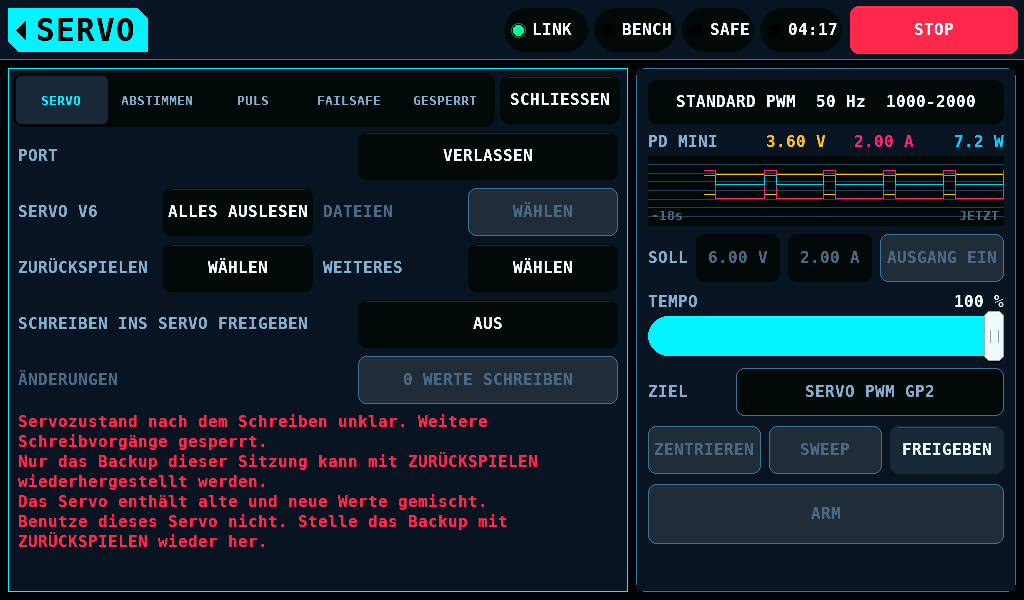
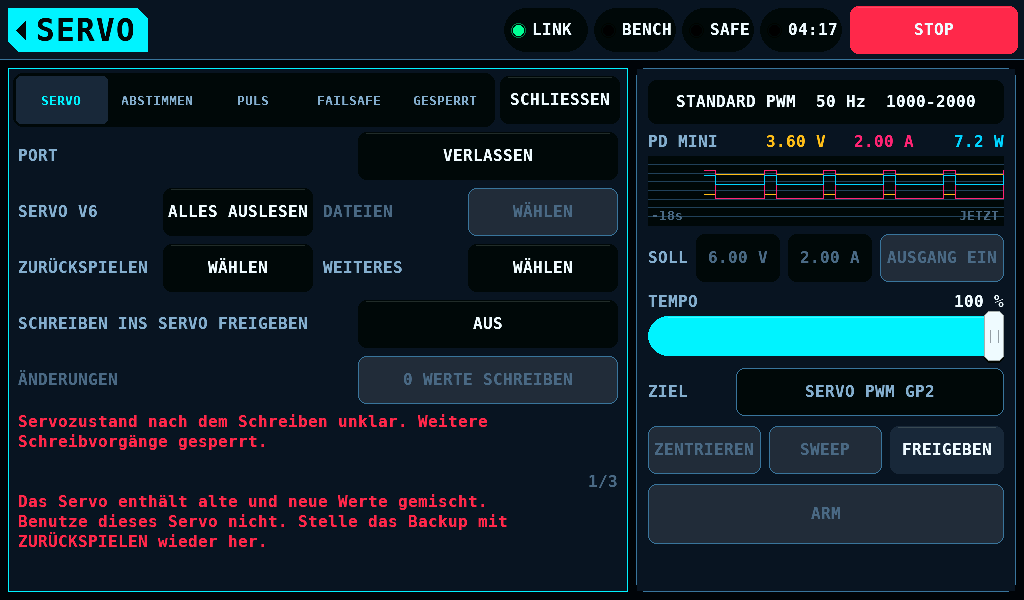
Draw every line of the programmer's message; the standing notes yield
Where the standing lines leave no row beside the message for a page
count, they page with the other notes, first, and a line taller than a
page waits for the message to go.  The longest message, 5 rows, fits the
7 rows under the SERVO tab, so no message line is left out.

Changed region(s): [[0.0, 0.75, 0.5312, 0.81]]

diff --git a/test/host/test_kst_panel_notes.c b/test/host/test_kst_panel_notes.c
@@ -6,8 +6,8 @@
  * Cases:
  * - notes_that_do_not_fit_take_pages_and_none_is_lost
  * - standing_notes_are_on_the_first_page_whole
- * - every_message_fits_whole_beside_every_standing_pair
- * - a_servo_in_doubt_keeps_its_standing_lines_on_the_first_page
+ * - every_message_fits_whole_under_the_servo_tab
+ * - a_servo_in_doubt_keeps_every_line_of_its_message
  * - the_notes_start_on_their_first_page_again
  * - a_text_before_the_area_is_set_still_ends
  *
@@ -65,12 +65,21 @@ TEST_CASE(standing_notes_are_on_the_first_page_whole)
     CHECK(kst_panel_pack_notes(rows, held, 5, 6, page) == 2);
     CHECK(page[0] == 0 && page[1] == 1 && page[2] == 0 && page[3] == 0
           && page[4] == 1);
-    /* No row beside the pair for a count: the pair alone, the rest on no
-     * page. */
-    for (int room = 2; room <= 4; ++room) {
-        CHECK(kst_panel_pack_notes(rows, held, 5, room, page) == 1);
-        CHECK(page[0] == -1 && page[1] == -1 && page[2] == 0
-              && page[3] == 0 && page[4] == -1);
+    /* No row beside the pair for a count: the pair yields, every note
+     * pages in pages of room - 1 rows, the pair first. */
+    CHECK(kst_panel_pack_notes(rows, held, 5, 4, page) == 3);
+    CHECK(page[2] == 0 && page[3] == 1 && page[0] == 1 && page[1] == 2
+          && page[4] == 2);
+    CHECK(kst_panel_pack_notes(rows, held, 5, 3, page) == 4);
+    CHECK(page[2] == 0 && page[3] == 1 && page[0] == 2 && page[1] == 2
+          && page[4] == 3);
+    /* A note taller than a page waits for the room to grow. */
+    CHECK(kst_panel_pack_notes(rows, held, 5, 2, page) == 3);
+    CHECK(page[2] == -1 && page[3] == -1 && page[0] == 0 && page[1] == 1
+          && page[4] == 2);
+    CHECK(kst_panel_pack_notes(rows, held, 5, 1, page) == 1);
+    for (int i = 0; i < 5; ++i) {
+        CHECK_EQ(page[i], -1);
     }
 }
 
@@ -135,11 +144,10 @@ static int max_int(int a, int b)
 
 /* The standing lines take up to two rows each and every message up to
  * three lines.  Between the SERVO tab's last row and 4 px above the alert
- * band there are 7 rows: the tallest pair and the tallest message fit
- * whole in English.  In German they take 9: the pair stays whole with 3
- * rows for the message under it, and the message's last 2 rows at most
- * are not drawn.  No note reaches into a value row. */
-TEST_CASE(every_message_fits_whole_beside_every_standing_pair)
+ * band there are 7 rows: the tallest message fits whole in them in both
+ * languages, and in English the tallest pair fits beside it.  In German
+ * they take 9; the pair yields to the message (kst_panel_pack_notes()). */
+TEST_CASE(every_message_fits_whole_under_the_servo_tab)
 {
     static const unsigned args[] = { 0u, 1u, 2u, 9u, 10u, 99u, 255u, 256u,
                                      0x0101u, 0x0F0Fu, 0xFFFFu };
@@ -189,11 +197,9 @@ TEST_CASE(every_message_fits_whole_beside_every_standing_pair)
         CHECK(held > 0);
         CHECK(text > 0);
         CHECK_EQ(fit, 7);
+        CHECK(text <= fit);
         if (lang == 0) {
             CHECK(held + text <= fit);
-        } else {
-            CHECK(held + KST_PANEL_MSG_LINES <= fit);
-            CHECK(held + text <= fit + 2);
         }
     }
     ui_text_set_language(UI_LANG_EN);
@@ -202,12 +208,28 @@ TEST_CASE(every_message_fits_whole_beside_every_standing_pair)
 /* An area 460 px tall: 6 rows of notes under the SERVO tab. */
 static const gfx_rect_t k_short = { UI_MARGIN, UI_MARGIN, 620, 460 };
 
+/* Every line of the message shown is drawn, and nothing passes 4 px above
+ * the alert band. */
+static void message_whole(void)
+{
+    char t[KST_PANEL_MSG_LINES][KST_PANEL_LINE];
+    const gfx_rect_t drawn = kst_panel_notes_drawn();
+    const gfx_rect_t last = val(PG_SERVO, 4, 0);
+
+    CHECK_EQ(kst_panel_shown_message_lines(),
+             kst_panel_message_lines(kst_prog_message(M), t));
+    CHECK(drawn.h > 0);
+    CHECK(drawn.y >= last.y + last.h);
+    CHECK(drawn.y + drawn.h <= NOTES_FOOT);
+}
+
 /* A servo in doubt, in German, after READ ALL: the standing pair (4 rows)
- * and the message (3 rows) fill the 7 rows above the alert band, so the
- * other notes wait on page 0 for the message to go.  A taller message
- * keeps the pair whole and loses its last lines; with no message every
- * note fits. */
-TEST_CASE(a_servo_in_doubt_keeps_its_standing_lines_on_the_first_page)
+ * and the message (3 rows) leave no row for the count, so the pair yields:
+ * its lines page with the other notes, first, and the message stays
+ * whole.  The tallest message, 5 rows, beside the pair: the pair's lines,
+ * 2 rows each, wait, and every line of the message is drawn.  With no
+ * message every note fits. */
+TEST_CASE(a_servo_in_doubt_keeps_every_line_of_its_message)
 {
     fresh();
     ui_text_set_language(UI_LANG_DE);
@@ -217,18 +239,15 @@ TEST_CASE(a_servo_in_doubt_keeps_its_standing_lines_on_the_first_page)
     tap(kst_panel_tab_rect(PG_SERVO));
     tap(val(PG_SERVO, 1, 0));          /* READ ALL */
     settle();
-    CHECK_EQ(kst_panel_note_pages(), 1);
-    standing_shown();
-    CHECK(!on_page(kst_panel_status_line(0)));
-    {
-        char t[KST_PANEL_MSG_LINES][KST_PANEL_LINE];
+    CHECK(kst_panel_standing_line(1) != NULL);
+    message_whole();
+    CHECK(kst_panel_note_pages() > 1);
+    CHECK(on_page(kst_panel_standing_line(0)));
+    tap(kst_panel_notes_rect());
+    CHECK_EQ(kst_panel_note_page(), 1);
+    CHECK(on_page(kst_panel_standing_line(1)));
+    message_whole();
 
-        CHECK_EQ(kst_panel_shown_message_lines(),
-                 kst_panel_message_lines(kst_prog_message(M), t));
-    }
-
-    /* A message of 4 rows, then one of 5: the pair stays on page 0, the
-     * message's lines that pass the foot are not drawn. */
     {
         const kst_prog_msg_t four = { .id = KST_PROG_MSG_BACKUP_OTHER,
                                       .level = KST_PROG_DANGER,
@@ -242,13 +261,13 @@ TEST_CASE(a_servo_in_doubt_keeps_its_standing_lines_on_the_first_page)
         CHECK_EQ(message_rows(&four), 4);
         M->msg = four;
         show();
-        standing_shown();
-        CHECK_EQ(kst_panel_shown_message_lines(), 1);
+        message_whole();
         CHECK_EQ(message_rows(&five), 5);
         M->msg = five;
         show();
-        standing_shown();
-        CHECK(kst_panel_shown_message_lines() >= 1);
+        message_whole();
+        CHECK(!on_page(kst_panel_standing_line(0)));
+        CHECK(!on_page(kst_panel_standing_line(1)));
     }
 
     /* No message: on SERVO's left card every note fits on one page. */
@@ -329,8 +348,8 @@ int main(void)
 {
     RUN(notes_that_do_not_fit_take_pages_and_none_is_lost);
     RUN(standing_notes_are_on_the_first_page_whole);
-    RUN(every_message_fits_whole_beside_every_standing_pair);
-    RUN(a_servo_in_doubt_keeps_its_standing_lines_on_the_first_page);
+    RUN(every_message_fits_whole_under_the_servo_tab);
+    RUN(a_servo_in_doubt_keeps_every_line_of_its_message);
     RUN(the_notes_start_on_their_first_page_again);
     RUN(a_text_before_the_area_is_set_still_ends);
     return test_summary("kst_panel_notes");

diff --git a/shared/ui/kst_panel_draw.c b/shared/ui/kst_panel_draw.c
@@ -369,12 +369,29 @@ int kst_panel_pack_notes(const int *rows, const bool *standing, int count,
         return 1;
     }
     /* The standing notes take the first page before any other.  With no
-     * row left beside them for the page count, the other notes wait. */
+     * row left beside them for the page count, they yield to the message:
+     * every note pages in pages of room - 1 rows, the standing ones first,
+     * and a note taller than a page waits for the message to go. */
     if (held > 0 && held > room - 1) {
-        for (int i = 0; i < count; ++i) {
-            page[i] = standing[i] ? 0 : -1;
+        used = 0;
+        for (int pass = 0; pass < 2; ++pass) {
+            for (int i = 0; i < count; ++i) {
+                if (standing[i] != (pass == 0)) {
+                    continue;
+                }
+                if (rows[i] > room - 1) {
+                    page[i] = -1;
+                    continue;
+                }
+                if (used > 0 && used + rows[i] > room - 1) {
+                    ++pages;
+                    used = 0;
+                }
+                page[i] = pages - 1;
+                used += rows[i];
+            }
         }
-        return 1;
+        return pages;
     }
     /* A page keeps its last row for the page count. */
     used = held;
@@ -482,12 +499,12 @@ static int rows_foot(void)
  * other notes page after them, the area's last notes row counts the pages,
  * and a tap on the notes shows the next.  Where the standing notes and the
  * message leave no row for the count, the other notes wait for the message
- * to go, and the standing notes rise into the gap above their place, no
- * higher than 4 px under the tab's last row.  Everything ends 4 px above
- * the alert band (kpn_notes_foot()): 7 rows under the SERVO tab's last row
- * on SERVO's left card.  The tallest pair and the tallest message take 7
- * rows in English and 9 in German; a message line that would still pass
- * the foot is not drawn.
+ * to go.  Where the standing notes leave no row for the count beside the
+ * message, they yield to it: they page with the others, first, and one
+ * taller than a page waits for the message to go.  Every line of the
+ * message is drawn: the longest takes 5 rows of the 7 under the SERVO
+ * tab's last row on SERVO's left card, which end 4 px above the alert band
+ * (kpn_notes_foot()).  No note rises above 4 px under the tab's last row.
  */
 static void layout_notes(notes_plan_t *p)
 {

diff --git a/test/host/test_kst_panel_layout.c b/test/host/test_kst_panel_layout.c
@@ -264,8 +264,9 @@ TEST_CASE(a_short_area_keeps_its_buttons_inside_it)
 
 /* Every message the model writes, with arguments of 1 to 5 digits, on the
  * SERVO tab of a connected servo and of a servo in doubt with its two
- * standing lines, in English and German: the notes and the message end
- * 4 px above the alert band and under the tab's last row. */
+ * standing lines (the tallest pair in German, 4 rows), in English and
+ * German: every line of the message is drawn, and the notes and the
+ * message end 4 px above the alert band and under the tab's last row. */
 TEST_CASE(no_note_or_message_lies_under_the_alert_band)
 {
     static const unsigned args[] = { 0u, 9u, 255u, 0xFFFFu };
@@ -288,14 +289,24 @@ TEST_CASE(no_note_or_message_lies_under_the_alert_band)
             for (unsigned id = 1u; id < 256u; ++id) {
                 for (size_t a = 0; a < sizeof(args) / sizeof(args[0]); ++a) {
                     const gfx_rect_t last = val(PG_SERVO, 4, 0);
+                    char t[KST_PANEL_MSG_LINES][KST_PANEL_LINE];
                     gfx_rect_t drawn;
+                    bool repeat;
+                    int n;
 
                     M->msg = (kst_prog_msg_t){ .id = (uint8_t)id,
                                                .level = KST_PROG_WARN,
                                                .reg = 0x10u,
                                                .arg = (uint16_t)args[a],
                                                .seq = M->msg.seq + 1u };
+                    n = kst_panel_message_lines(kst_prog_message(M), t);
+                    /* A message that repeats the first standing line is
+                     * left out; every other one is drawn whole. */
+                    repeat = n > 0 && kst_panel_standing_line(0) != NULL
+                             && strcmp(t[0], kst_panel_standing_line(0)) == 0;
                     drawn = kst_panel_notes_drawn();
+                    CHECK_EQ(kst_panel_shown_message_lines(),
+                             repeat ? 0 : n);
                     CHECK(drawn.y + drawn.h <= FOOT);
                     CHECK(drawn.h == 0 || drawn.y >= last.y + last.h);
                 }

diff --git a/shared/ui/include/kst_panel.h b/shared/ui/include/kst_panel.h
@@ -303,13 +303,21 @@ const char *kst_panel_choice_label(int i);
 const char *kst_panel_choice_title(void);
 
 /**
- * The page each of @p count notes of @p rows rows takes in @p room rows:
- * every note on page 0 when they fit, else pages that keep their last row
- * for the page count, a note never split.  A note marked in @p standing is
- * on page 0, and the others fill the rows left after the standing ones;
- * with no row left beside the standing notes for the count, the others
- * get page -1, shown on no page.  Writes @p page and returns the number of
- * pages.
+ * @brief The page each of @p count notes takes in @p room rows.
+ *
+ * Every note is on page 0 when they fit, else on pages that keep their
+ * last row for the page count, a note never split.  A note marked in
+ * @p standing is on page 0, and the others fill the rows left after the
+ * standing ones.  With no row left beside the standing notes for the
+ * count, they yield: every note pages in pages of @p room - 1 rows, the
+ * standing ones first, and a note taller than that gets page -1, shown on
+ * no page until the room grows.
+ * @param rows each note's rows
+ * @param standing whether each note stands
+ * @param count the notes
+ * @param room the rows they have
+ * @param page out: each note's page, -1 for none
+ * @return the number of pages
  */
 int kst_panel_pack_notes(const int *rows, const bool *standing, int count,
                          int room, int *page);

diff --git a/docs/Screens-de.md b/docs/Screens-de.md
@@ -1509,12 +1509,14 @@ Alert-Band:
 Die Beschriftungen der Reiter stehen in der Schrift 10 x 20, wenn jede in
 ihren Reiter von 95 px passt, wie im Englischen, und in der Schrift
 8 x 16, wenn eine nicht passt, wie das deutsche `ABSTIMMEN`. Kein Hinweis,
-keine Meldung und kein Bedienelement liegt unter dem Alert-Band. Brauchen
-die beiden stehenden Zeilen des Reiters SERVO und die Meldung mehr als
-seine 7 Zeilen, warten die anderen Hinweise, bis die Meldung geht, und eine
-Meldungszeile, die über den Fuß reichen würde, wird nicht gezeichnet: im
-Deutschen brauchen das längste Paar (4 Zeilen) und die längste Meldung
-(5 Zeilen) 9.
+keine Meldung und kein Bedienelement liegt unter dem Alert-Band. Jede Zeile
+einer Meldung wird gezeichnet: die längste nimmt 5 der 7 Zeilen unter dem
+Reiter SERVO. Lassen die beiden stehenden Zeilen neben der Meldung keine
+Zeile für die Seitenzahl frei, weichen sie ihr: sie blättern mit den
+anderen Hinweisen, zuerst, und eine Zeile, die höher ist als eine Seite,
+wartet, bis die Meldung geht. Im Deutschen brauchen das längste Paar
+(4 Zeilen) und die längste Meldung (5 Zeilen) 9 Zeilen; dort wartet das
+Paar.
 
 [Servo-Programmierer für KST- und Chaservo-Servos](ServoProgrammer-de.md)
 beschreibt ihn.

diff --git a/docs/Screens.md b/docs/Screens.md
@@ -1374,10 +1374,12 @@ or more and ending 4 px above the alert band:
 The tabs' labels are in the 10 x 20 face when every label fits its 95 px
 tab, as in English, and in the 8 x 16 face when one does not, as German
 `ABSTIMMEN` does. No note, message or control lies under the alert band.
-Where the two standing lines of the SERVO tab and the message need more
-than its 7 rows, the other notes wait for the message to go, and a
-message line that would pass the foot is not drawn: in German the tallest
-pair (4 rows) and the tallest message (5 rows) need 9.
+Every line of a message is drawn: the longest takes 5 of the 7 rows under
+the SERVO tab. Where the two standing lines leave no row beside the
+message for a page count, they yield to it: they page with the other
+notes, first, and a line taller than a page waits for the message to go.
+In German the tallest pair (4 rows) and the tallest message (5 rows) need
+9 rows; there the pair waits.
 
 [Servo programmer for KST and Chaservo servos](ServoProgrammer.md)
 describes it.

diff --git a/STATUS.md b/STATUS.md
@@ -398,7 +398,7 @@ pico-sdk tags the pages state to the headers, the tools and `ci.yml`.
 | `shared/ui/kst_panel_edit.c` | 329 | 322 | 97.9% |
 | `shared/ui/kst_panel_touch.c` | 216 | 213 | 98.6% |
 | `shared/ui/kst_panel_run.c` | 150 | 140 | 93.3% |
-| `shared/ui/kst_panel_draw.c` | 495 | 491 | 99.2% |
+| `shared/ui/kst_panel_draw.c` | 506 | 500 | 98.8% |
 | `shared/ui/analyser_screen.c` | 241 | 237 | 98.3% |
 | `shared/ui/balance_screen.c` | 379 | 379 | 100.0% |
 | `shared/ui/battery_screen.c` | 201 | 190 | 94.5% |
@@ -578,7 +578,7 @@ pico-sdk tags the pages state to the headers, the tools and `ci.yml`.
 | `shared/webaccess/wa_zip.c` | 349 | 333 | 95.4% |
 | `shared/webaccess/wa_page.c` | 148 | 143 | 96.6% |
 | `shared/webaccess/wa_mdns.c` | 119 | 118 | 99.2% |
-| **total** | **52196** | **51023** | **97.8%** |
+| **total** | **52207** | **51032** | **97.7%** |
 
 _Generated by `tools/coverage.py`; CI runs `--check` and fails on drift._
 <!-- coverage:end -->

diff --git a/README-de.md b/README-de.md
@@ -130,7 +130,7 @@ anderen Implementierungen (eine Lizenzregel), und die Coverage hat neben der
 Gesamtuntergrenze eine Untergrenze je Datei.
 
 <!-- coverage:start -->
-Zeilenabdeckung von `shared/` und `protocols/` durch die Host-Suite: **97,8 %**, 51 023 von 52 196 Zeilen in 230 Dateien. CI schlägt unter 94 % gesamt oder unter 85 % in einer Datei fehl. Die Tabelle je Datei steht in [STATUS.md](STATUS.md#tests-and-ci).
+Zeilenabdeckung von `shared/` und `protocols/` durch die Host-Suite: **97,7 %**, 51 032 von 52 207 Zeilen in 230 Dateien. CI schlägt unter 94 % gesamt oder unter 85 % in einer Datei fehl. Die Tabelle je Datei steht in [STATUS.md](STATUS.md#tests-and-ci).
 <!-- coverage:end -->
 
 Sicherheitsmeldungen: [SECURITY.md](SECURITY.md).

diff --git a/README.md b/README.md
@@ -124,7 +124,7 @@ specifications, not from other implementations (a licensing rule), and coverage
 has a per-file floor as well as a total.
 
 <!-- coverage:start -->
-Host-suite line coverage of `shared/` and `protocols/`: **97.8%**, 51,023 of 52,196 lines in 230 files. CI fails below 94% in total or below 85% in any file. [STATUS.md](STATUS.md#tests-and-ci) has the table per file.
+Host-suite line coverage of `shared/` and `protocols/`: **97.7%**, 51,032 of 52,207 lines in 230 files. CI fails below 94% in total or below 85% in any file. [STATUS.md](STATUS.md#tests-and-ci) has the table per file.
 <!-- coverage:end -->
 
 Security and safety reports: [SECURITY.md](SECURITY.md).
